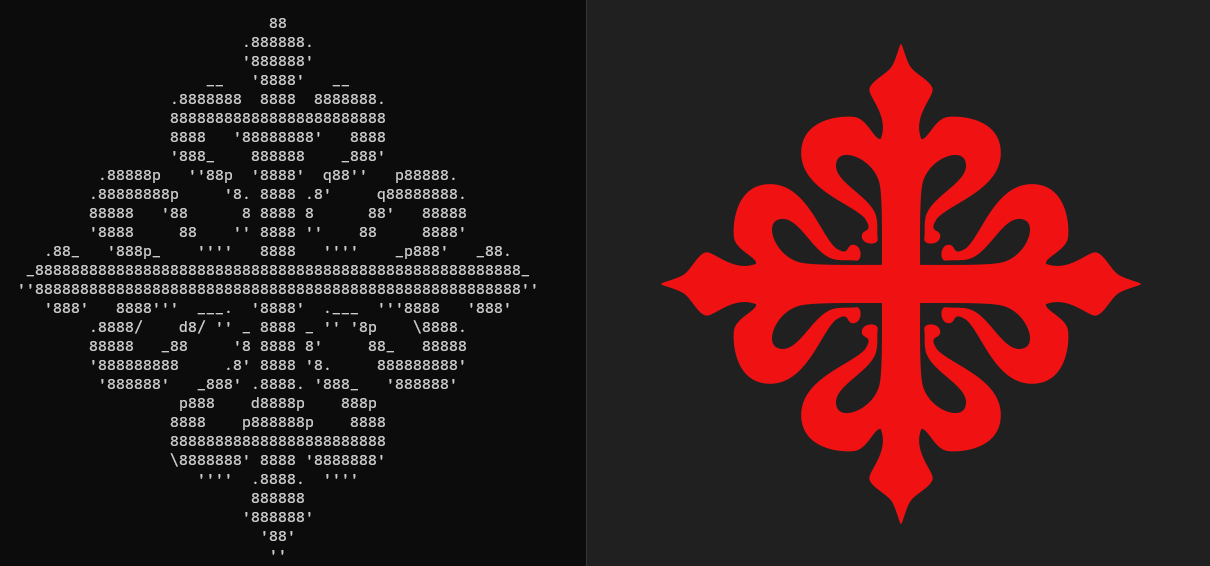
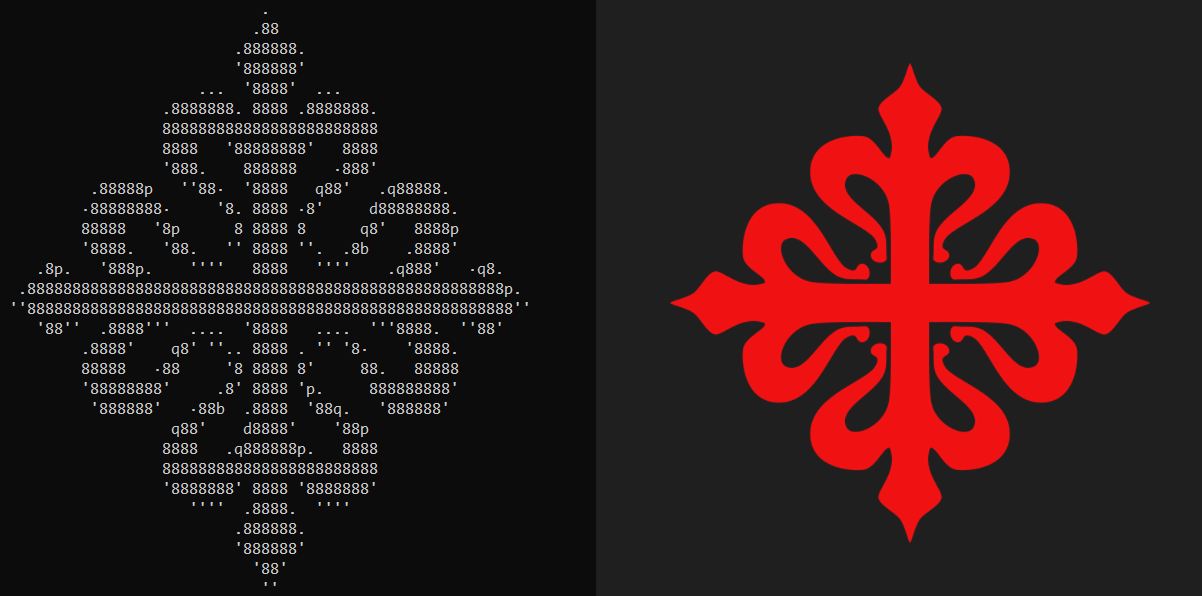
Choose characters

Changed region(s): [[0.0, 0.03, 0.4617, 0.9912], [0.5541, 0.0901, 0.9542, 0.9311]]

diff --git a/src/main.rs b/src/main.rs
@@ -17,6 +17,10 @@ struct Args {
     #[arg(short, long)]
     font: Option<String>,
 
+    /// Path of the font to use (optional)
+    #[arg(short, long)]
+    chars: Option<String>,
+
     /// Inverse the colors of the image
     #[arg(short, long, default_value_t = false)]
     inverse: bool,
@@ -43,7 +47,7 @@ fn match_group_with_letter(group: [[f32; 8]; 16], font: &HashMap<char, Vec<Vec<f
     best_match
 }
 
-fn process_block(img: image::DynamicImage, args: Args, font: HashMap<char, Vec<Vec<f32>>>) {
+fn process_block(img: image::DynamicImage, inverse: bool, font: HashMap<char, Vec<Vec<f32>>>) {
     // Get the dimensions of the image
     let (width, height) = img.dimensions();
 
@@ -68,12 +72,12 @@ fn process_block(img: image::DynamicImage, args: Args, font: HashMap<char, Vec<V
                         continue;
                     }
                     let pixel = img.get_pixel(x * 8 + pixel_x, y * 16 + pixel_y);
-                    let brightness = calculate_brightness(&pixel);
-                    group[pixel_y as usize][pixel_x as usize] = brightness - 0.5;
-
-                    if args.inverse {
-                        group[pixel_y as usize][pixel_x as usize] *= -1.0;
-                    }
+                    let brightness = if pixel[3] == 0 {
+                        -0.5
+                    } else {
+                        (calculate_brightness(&pixel) - 0.5) * if inverse { -1.0 } else { 1.0 }
+                    };
+                    group[pixel_y as usize][pixel_x as usize] = brightness;
                 }
             }
             print!("{}", match_group_with_letter(group, &font));
@@ -88,9 +92,15 @@ fn main() -> io::Result<()> {
     // Load the image
     let img = image::open(&args.path).unwrap();
 
-    let font = abc::get_dict8x16(&args.font);
+    let chars = if let Some(chars) = args.chars {
+        chars
+    } else {
+        "8dbqp'·. ".to_string()
+    };
 
-    process_block(img, args, font);
+    let font = abc::get_dict8x16(args.font, chars);
+
+    process_block(img, args.inverse, font);
 
     Ok(())
 }

diff --git a/src/abc.rs b/src/abc.rs
@@ -4,14 +4,14 @@ use std::collections::HashMap;
 
 use image::{Rgba, RgbaImage};
 
-pub fn get_dict8x16(font_path: &Option<String>) -> HashMap<char, Vec<Vec<f32>>> {
+pub fn get_dict8x16(font_path: Option<String>, chars: String) -> HashMap<char, Vec<Vec<f32>>> {
     // Load or create an image
     let mut img;
 
     // Load a font
     let font: Font<'_>;
     if let Some(font_path) = font_path {
-        let font_data = std::fs::read(font_path).expect(&format!("Failed to read font file {font_path}"));
+        let font_data = std::fs::read(&font_path).expect(&format!("Failed to read font file {font_path}"));
         font = Font::try_from_vec(font_data).expect("Failed to load font");
     } else {
         font = Font::try_from_bytes(include_bytes!("C:/Windows/Fonts/Consola.ttf")).unwrap();
@@ -26,7 +26,8 @@ pub fn get_dict8x16(font_path: &Option<String>) -> HashMap<char, Vec<Vec<f32>>> 
     let mut characters = Vec::new();
 
     // Extract characters from the font
-    for c in "8dqpb/\\'._ ".chars() {
+    print!("Characters: ");
+    for c in chars.chars() {
         // ASCII printable characters
         print!("{}", c );
         characters.push(c);

diff --git a/readme.md b/readme.md
@@ -1,8 +1,8 @@
 # Logo to ASCII
 
-Prueba de concepto para convertir una imagen en blanco y negro a ascii art (hecho en rust).
+Prueba de concepto para convertir un logo en ASCII art (hecho en rust).
 
-A diferencia de otros conversores de imágenes a ASCII, este no usa la luminosidad media de cada bloque, sino que elige el carácter que mejor se aproxima a su forma. No hace diferencia entre colores, solo mide la luminosidad que tiene cada pixel, por lo que funciona mejor con bordes bien definidos.
+A diferencia de otros conversores de imágenes a ASCII, este no usa la luminosidad media de cada bloque, sino que elige el carácter que mejor se aproxima a su forma. No hace diferencia entre colores, solo mide la luminosidad que tiene cada píxel, por lo que funciona mejor con imágenes en blanco y negro con bordes definidos.
 
 ![Cruz de Calatrava](./images/cruz.png)
 
@@ -12,23 +12,44 @@ A diferencia de otros conversores de imágenes a ASCII, este no usa la luminosid
   - [Instalación](#instalación)
   - [Uso](#uso)
   - [¿Cómo funciona?](#cómo-funciona)
+  - [Preguntas frecuentes](#preguntas-frecuentes)
 
 ## Instalación
 
 1. Descarga rust desde https://www.rust-lang.org/tools/installs:
    1. Al terminar la instalación escribe `rustc --version` en la consola para comprobar que todo ha salido bien.
 2. Descarga este repositorio.
-3. Compllia el repositorio: En la consola de comandos ejecuta `cargo build`. 
+3. Compila el repositorio: En la consola de comandos ejecuta `cargo build`.
 
 ## Uso
 
-1. Ejecuta el programa desde la consola. Le tenemos que indicar la imagen que queremos usar, por lo que el comando quedaría así: `./target/debug/Logo_to_ASCII.exe --path <path_imagen>`.
+1. Ejecuta el programa desde la consola. Le tenemos que indicar la imagen que queremos usar, por lo que el comando quedaría así:
+   ```./target/debug/Logo_to_ASCII.exe --path <path_imagen>```
 
-Ese comando imprimirá el texto en la consola.
+Ese comando imprimirá el texto en la consola. El set por defecto de caracteres es el `8dbqp'·. ` (incluyendo el espacio).
 
-Otros casos a tener en cuenta:
+Opciones:
 * Para imprimir la imagen en negativo (imprimiendo donde está el color negro) se deberá añadir `-i` al comando.
-* Para cambiar la fuente con la que se hace la comparación se puede usar el argumento `--font <path_fuente>.ttf`. Se tratará como una fuente monoespacio.
+* Para cambiar el set de caracteres se puede usar el argumento `--chars <caracteres>`. El set de caracteres debe ir entre `"` o `'` si se quiere usar el espacio. 
+Para usar los caracteres de las comillas (`"` y `'`) se deben hacer pruebas dependiendo de la consola que se use.
+
+<details>
+<summary>Linux</summary>
+
+Se puede usar la barra invertida sin nungún problema: `--chars "chars'\""` usará `chars"'`.
+
+</details>
+
+<details>
+<summary>Windows</summary>
+
+* Powershell: `--chars "chars' \"` usará `chars' "`. Siempre tiene que haber un espacio antes de `\`. Si no, tomará `\` como carácter.
+* CMD: `--chars "chars'\"` usará `chars'"`.
+
+</details>
+<br>
+
+* Para cambiar la fuente con la que se hace la comparación se puede usar el argumento `--font <path_fuente>.ttf`. Se tomará como fuente monoespacio de 8x16.
 * Para guardar el texto en un documento de texto se puede añadir `> <path_archivo>.txt` al final del comando.
 
 ![Imagen procesada](./images/image.png)
@@ -39,16 +60,21 @@ Logo a ASCII en negativo
 
 ## ¿Cómo funciona?
 
-La idea surgió de un video en el que se convertía una imagen a ASCII. Sin embargo, se perdía mucha información, los carácteres no tenían la forma que debían.
+La idea surgió de un video en el que se convertía una imagen a ASCII. Sin embargo, se perdía mucha información, los caracteres no tenían la forma que debían.
 
 Este algoritmo opera con píxeles en vez de con bloques.
 
-Primero se procesan los carácteres. En la consola tienen una proporción de 2 de alto por 1 de ancho. Se eligen las dimensiones 8x16 para hacer un mapa de bits de cada carácter. Este indica la luminosidad de cada pixel.
+Primero se procesan los caracteres. En la consola tienen una proporción de 2 de alto por 1 de ancho. Se eligen las dimensiones 8x16 para hacer un mapa de bits de cada carácter. Este indica la luminosidad de cada píxel.
 
 Al calcular la luminosidad se obtiene un valor de 0 a 1. Es importante restarle 0.5 para obtener valores negativos y positivos.
 
-Después se procesa la imagen, dividiéndola en bloques de 8x16 (la misma medida que nuestros carácteres) y se calcula la luminosidad de cada uno de los pixeles (restándole también 0.5). 
+Después se procesa la imagen, dividiéndola en bloques de 8x16 (la misma medida que nuestros caracteres) y se calcula la luminosidad de cada uno de los píxeles (restándole también 0.5). 
 
-Por cada carácter, se multiplica el valor de cada pixel con su homólogo en el bloque, y se suman todos los valores ([0][0] * [0][0] + [0][1] * [0][1] + ...). Al final, se imprime el carácter con la puntuación más alta.
+Por cada carácter, se multiplica el valor de cada píxel con su homólogo en el bloque, y se suman todos los valores ([0][0] * [0][0] + [0][1] * [0][1] + ...). Al final, se imprime el carácter con la puntuación más alta.
 
-El algoritmo funciona porque al multiplicar dos valores positivos se obtiene un númro positivo, y al multiplicar dos números negativos también. Esto premia las coincidencias de pixeles (y no píxeles) y penaliza las diferencias.
+El algoritmo funciona porque al multiplicar dos valores positivos se obtiene un númro positivo, y al multiplicar dos números negativos también. Esto premia las coincidencias de píxeles (y no píxeles) y penaliza las diferencias.
+
+## Preguntas frecuentes
+
+* ¿Cómo imprimir un logo en negro?
+  Para imprimir un logo en negro con el fondo transparente hay que añadir `-i` al comando, para imprimir la imagen en negativo. Recordamos que el color transparente nunca se imprime.
